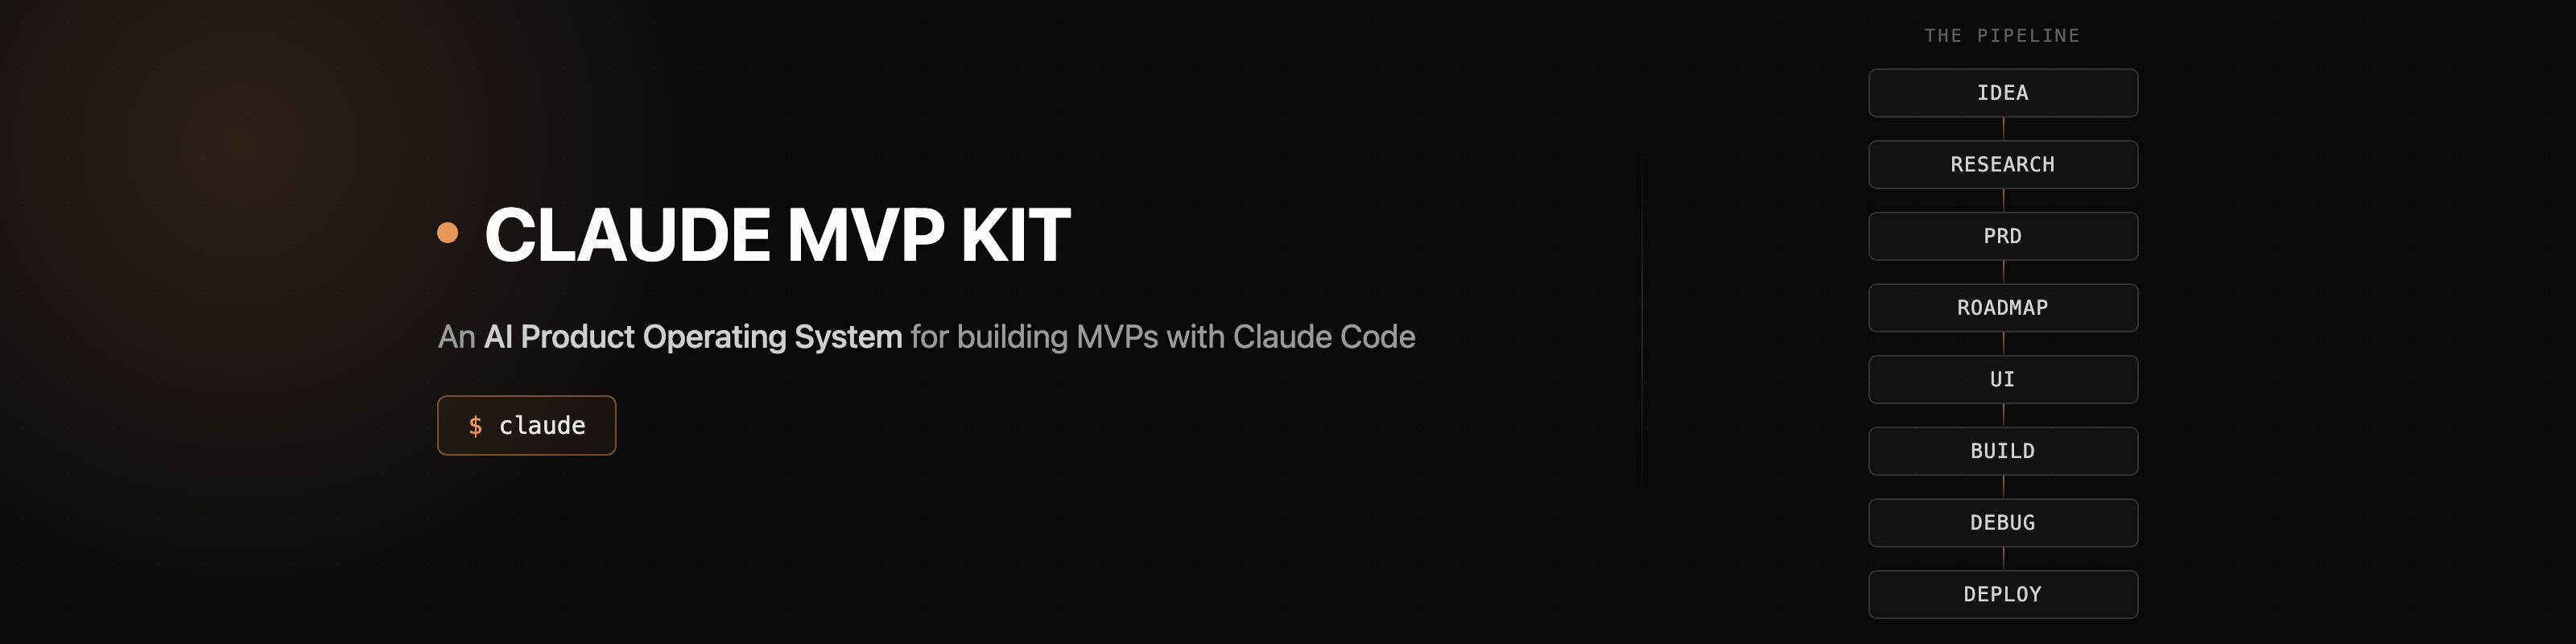
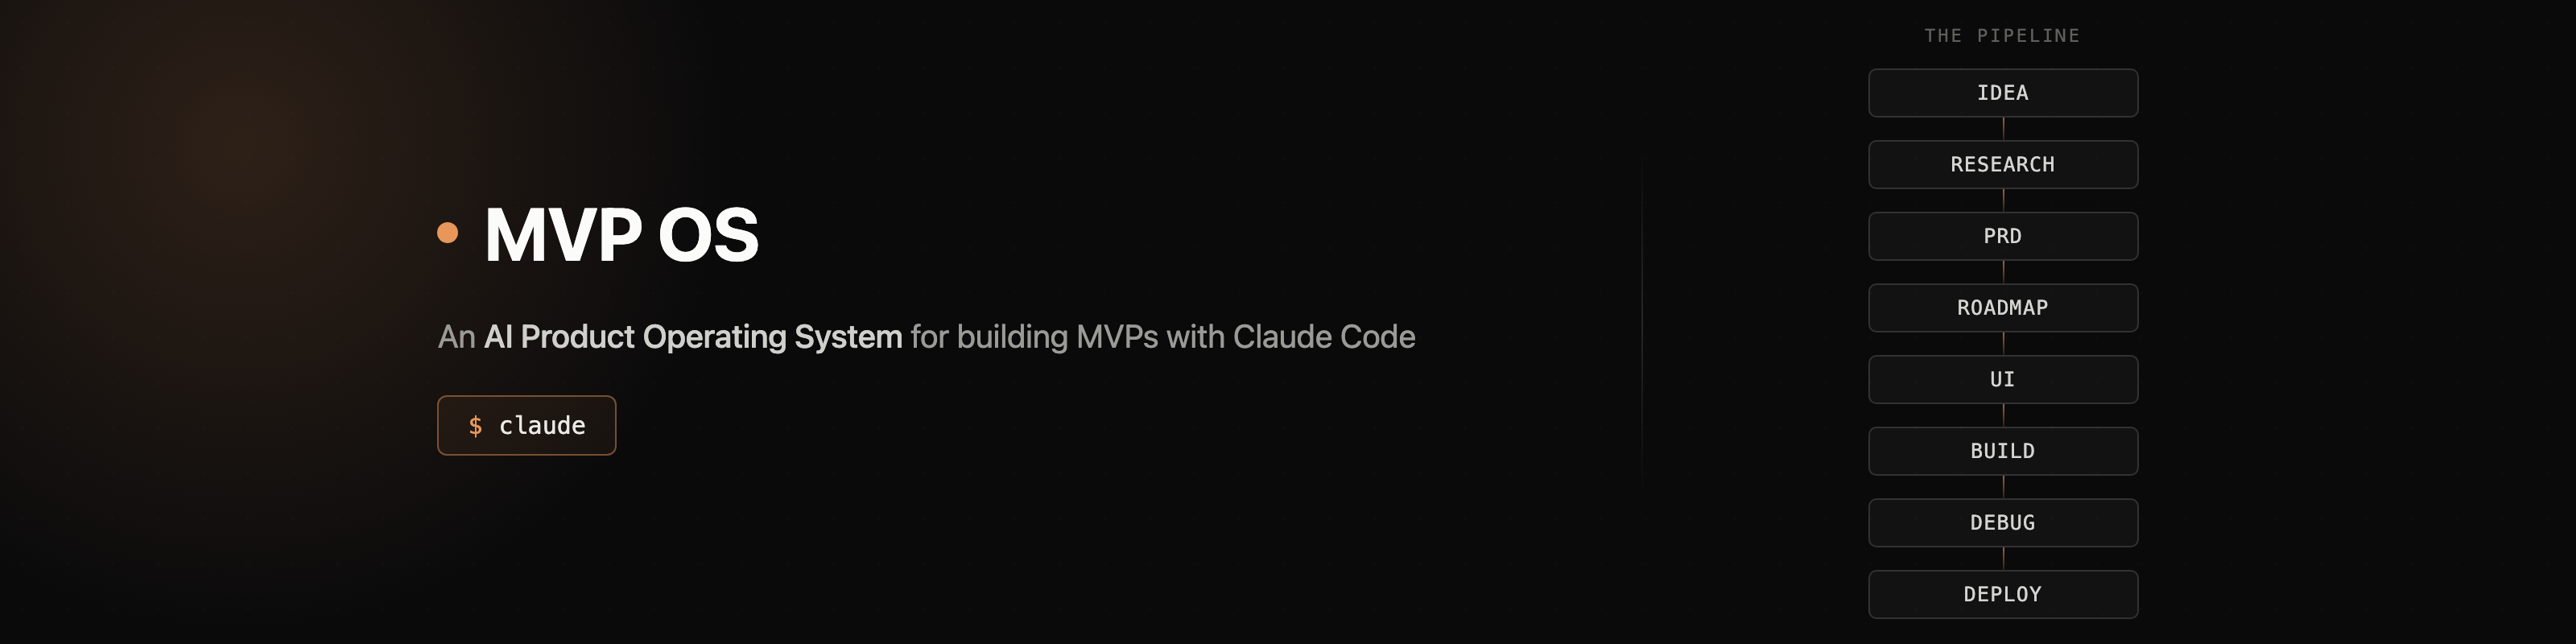
Rename kit: Claude MVP Kit -> MVP OS
Avoids leading a product/repo name with Anthropic's "Claude" trademark —
kept as descriptive usage in the tagline/scripts ("for building MVPs with
Claude Code", "$ claude") instead, which is the standard safe pattern for
third-party tools. Re-rendered the banner with the new wordmark.

Claude-Session: https://claude.ai/code/session_016aQZyr2H3AV7nvrdK9dx1a

Changed region(s): [[0.1875, 0.3125, 0.4375, 0.4062]]

diff --git a/assets/banner.html b/assets/banner.html
@@ -2,7 +2,7 @@
 <html lang="en">
 <head>
 <meta charset="UTF-8">
-<title>Claude MVP Kit — Banner</title>
+<title>MVP OS — Banner</title>
 <style>
   * { margin: 0; padding: 0; box-sizing: border-box; }
 
@@ -176,7 +176,7 @@
     <div class="left">
       <div class="wordmark">
         <span class="dot"></span>
-        <span class="name">CLAUDE MVP KIT</span>
+        <span class="name">MVP OS</span>
       </div>
       <div class="tagline">
         An <b>AI Product Operating System</b> for building MVPs with Claude Code

diff --git a/README.md b/README.md
@@ -1,6 +1,6 @@
-# Claude MVP Kit
+# MVP OS
 
-![Claude MVP Kit](assets/banner.png)
+![MVP OS](assets/banner.png)
 
 **An AI Product Operating System for building MVPs with Claude Code.**
 
@@ -20,7 +20,7 @@ Clone it, and you can build your own MVP the same day.
 ## Repository Tour
 
 ```
-claude-mvp-kit/
+mvp-os/
 ├── .claude/
 │   └── skills/          14 skills: research, persona, competitor, lean-canvas,
 │                         prd, roadmap, user-story, ui, build, frontend,

diff --git a/.claude/skills/research/SKILL.md b/.claude/skills/research/SKILL.md
@@ -6,9 +6,9 @@ metadata:
   phase: discover
   category: research
   composed_from: [define-problem-statement, define-jtbd-canvas, discover-market-sizing, discover-interview-synthesis]
-  author: claude-mvp-kit (built on product-on-purpose/pm-skills, Apache-2.0)
+  author: mvp-os (built on product-on-purpose/pm-skills, Apache-2.0)
 ---
-<!-- claude-mvp-kit | composed from PM-Skills (https://github.com/product-on-purpose/pm-skills, Apache 2.0) -->
+<!-- mvp-os | composed from PM-Skills (https://github.com/product-on-purpose/pm-skills, Apache 2.0) -->
 # Research
 
 Research is the first station on the MVP pipeline: **Idea → Research → PRD → UI → Code → Deploy**. Its job is to turn a one-line idea into three grounded artifacts before anyone writes a spec — a **problem statement**, a **JTBD (jobs-to-be-done) canvas**, and a **market sanity check**. Skip this stage and the PRD ends up specifying a solution to a problem nobody has confirmed.

diff --git a/.claude/skills/roadmap/SKILL.md b/.claude/skills/roadmap/SKILL.md
@@ -6,9 +6,9 @@ metadata:
   phase: define
   category: planning
   composed_from: [define-prioritization-framework, foundation-okr-writer, define-opportunity-tree]
-  author: claude-mvp-kit (built on product-on-purpose/pm-skills, Apache-2.0)
+  author: mvp-os (built on product-on-purpose/pm-skills, Apache-2.0)
 ---
-<!-- claude-mvp-kit | composed from PM-Skills (https://github.com/product-on-purpose/pm-skills, Apache 2.0) -->
+<!-- mvp-os | composed from PM-Skills (https://github.com/product-on-purpose/pm-skills, Apache 2.0) -->
 # Roadmap
 
 Roadmap sits between PRD and UI in the pipeline: **Idea → Research → PRD → Roadmap → UI → Code → Deploy**. An MVP built in a day or a week can't build every feature in the PRD at once — this skill decides *what order*, with a visible reason, not a gut call.

diff --git a/CLAUDE.md b/CLAUDE.md
@@ -1,4 +1,4 @@
-# CLAUDE.md — Claude MVP Kit
+# CLAUDE.md — MVP OS
 
 This repo is a Product Operating System, not a code sample. When working in this repo, follow the rules below — they exist so an MVP gets built in one sitting without the common failure modes (over-scoped stack, unverified layers stacking on each other, a live deploy attempted on a broken build).
 